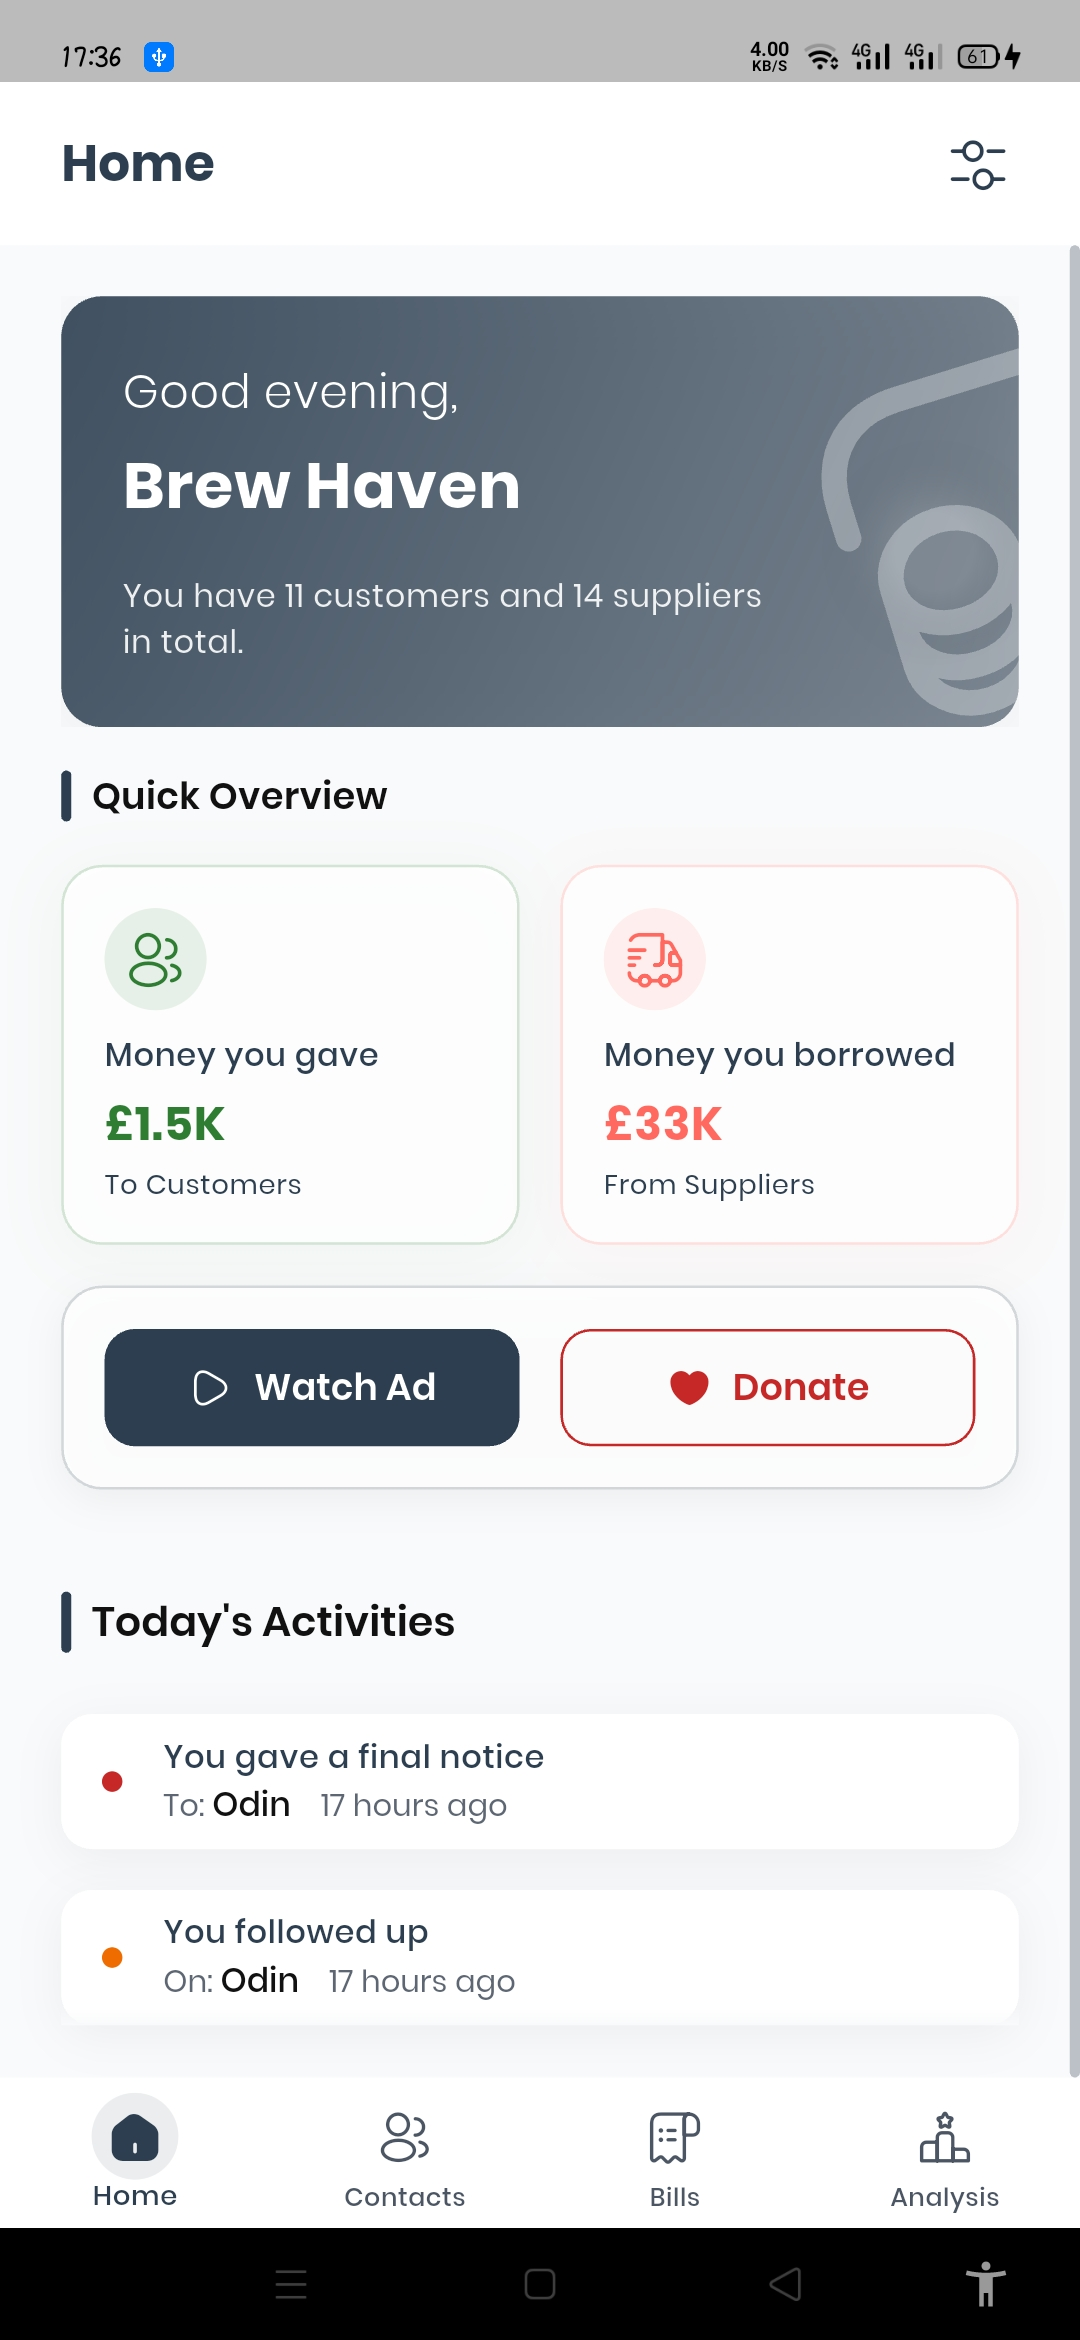
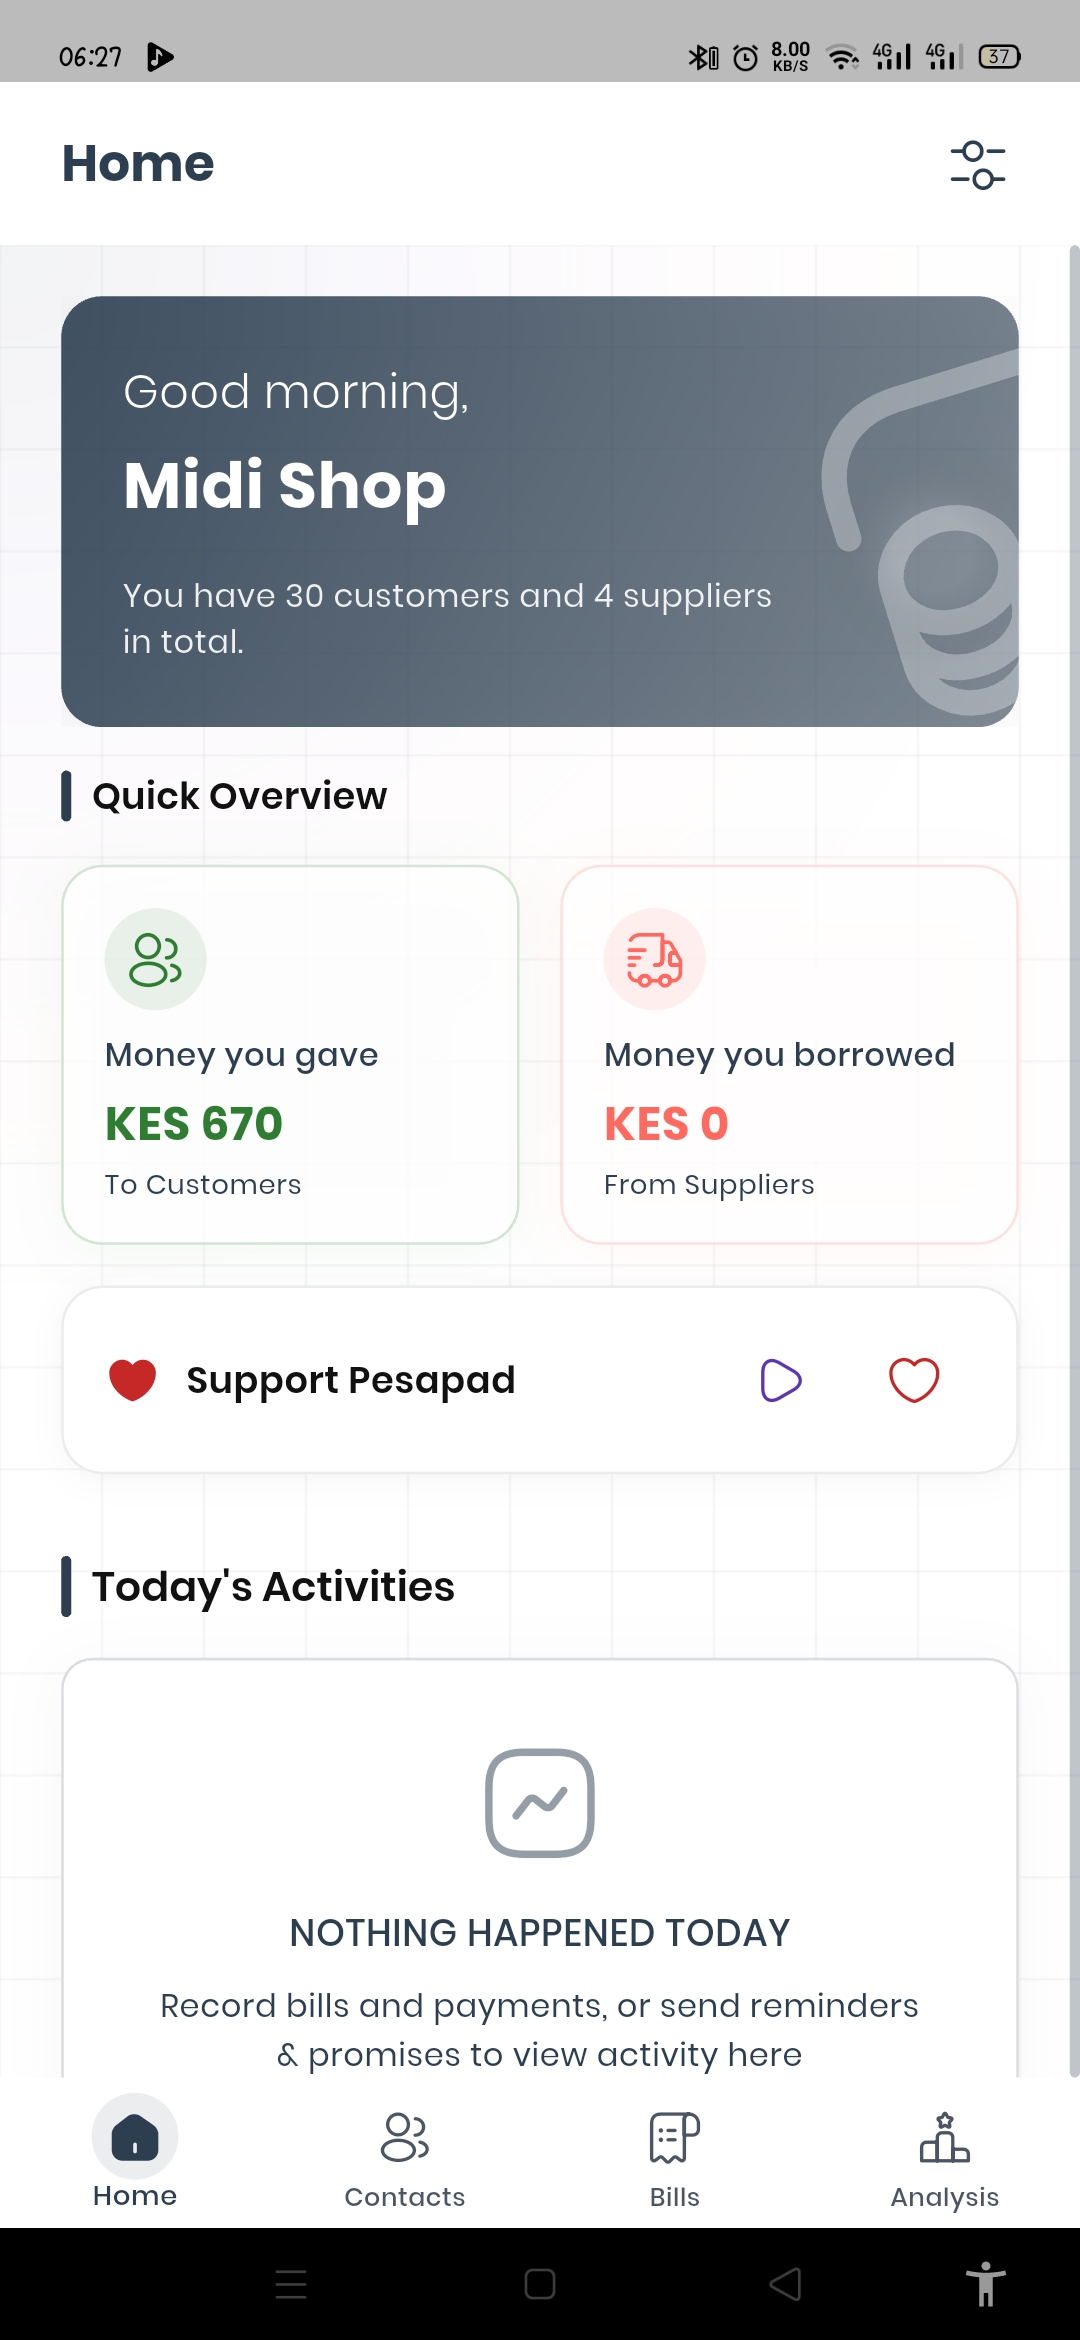
Updates

diff --git a/index.html b/index.html
@@ -418,15 +418,15 @@
                 >
                   <div class="carousel-slide-hero active">
                     <img
-                      src="assets/images/home_page.jpg"
+                      src="assets/images/pesapad_intro.jpg"
                       alt="Pesapad Dashboard"
                       class="w-full h-full object-cover"
                     />
                   </div>
                   <div class="carousel-slide-hero">
                     <img
-                      src="assets/images/bills_page.jpg"
-                      alt="Bills View"
+                      src="assets/images/lock_screen.jpg"
+                      alt="Lock Screen"
                       class="w-full h-full object-cover"
                       onerror="
                         this.src =
@@ -436,8 +436,8 @@
                   </div>
                   <div class="carousel-slide-hero">
                     <img
-                      src="assets/images/lock_screen.jpg"
-                      alt="Trust Ranking"
+                      src="assets/images/home_page.jpg"
+                      alt="Home Page"
                       class="w-full h-full object-cover"
                       onerror="
                         this.src =
@@ -635,7 +635,7 @@
         <div
           class="inline-flex items-center gap-2 px-3 py-1.5 rounded-full bg-purple-500/10 border border-purple-500/30 text-purple-400 text-xs font-semibold tracking-wide uppercase mb-4 scroll-reveal"
         >
-        Simple Setup
+          Simple Setup
         </div>
         <h2
           class="text-3xl sm:text-4xl font-black tracking-tight mb-4 scroll-reveal text-white"
@@ -1016,7 +1016,7 @@
         <div
           class="inline-flex items-center gap-2 px-3 py-1.5 rounded-full bg-purple-500/10 border border-purple-500/30 text-purple-400 text-xs font-semibold tracking-wide uppercase mb-4"
         >
-        Honest Business Model
+          Honest Business Model
         </div>
         <h2
           class="text-3xl sm:text-4xl lg:text-5xl font-black tracking-tight mb-6 text-white"
@@ -1386,8 +1386,8 @@
             Ready to know<br />your <span class="gradient-text">numbers</span>?
           </h2>
           <p class="text-purple-200 text-lg max-w-xl mx-auto mb-8">
-            Download Pesapad now. Works offline on any
-            Android device, regardless of screen size.
+            Download Pesapad now. Works offline on any Android device,
+            regardless of screen size.
           </p>
           <div
             class="flex flex-col sm:flex-row items-center justify-center gap-4"